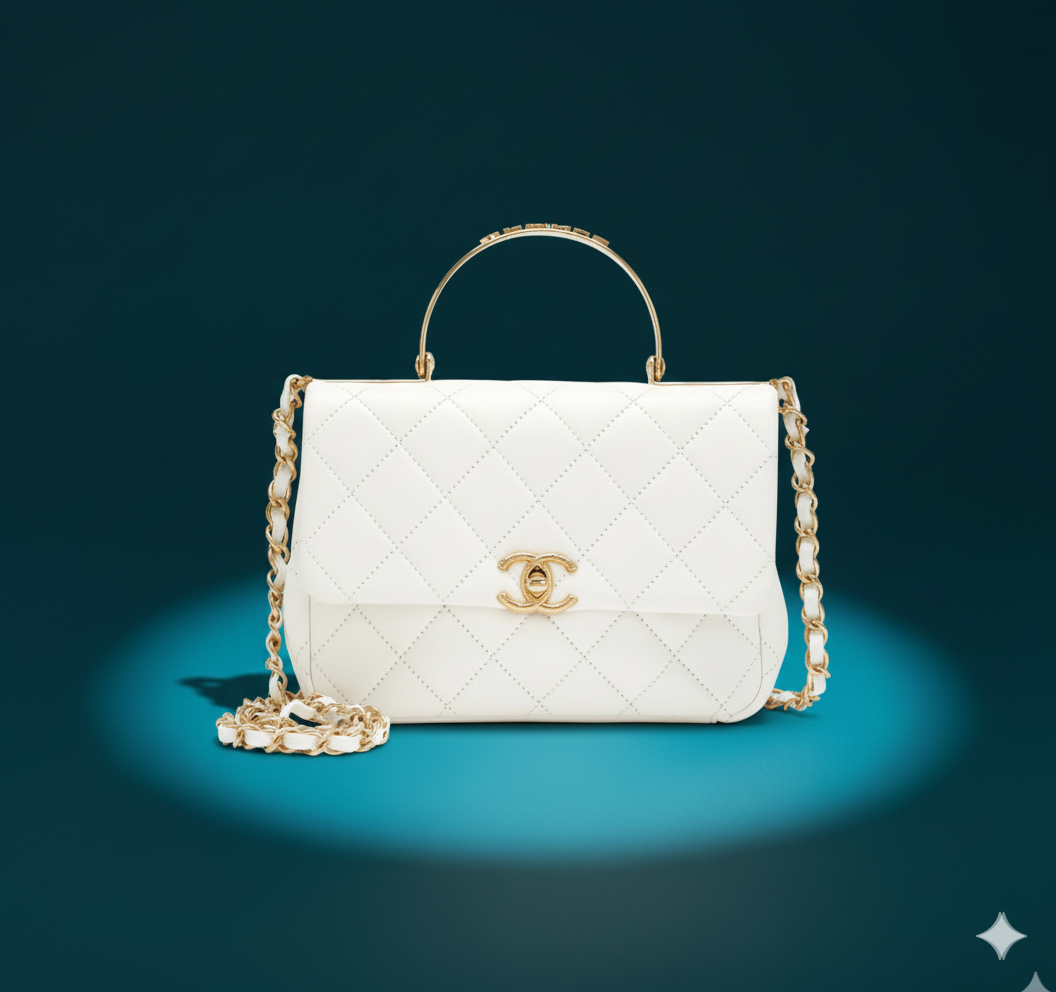
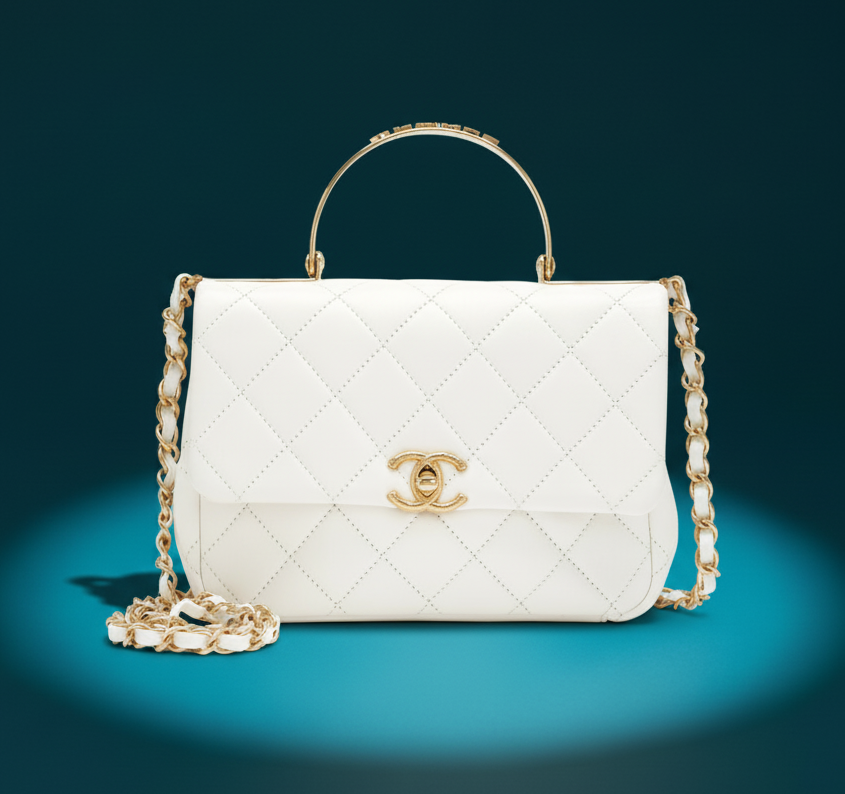
[prod/fix : - image water mark removed]

diff --git a/src/components/home/ProductModal.tsx b/src/components/home/ProductModal.tsx
@@ -146,7 +146,7 @@ const ProductModal: React.FC<ProductModalProps> = ({ bag, onClose }) => {
             <img
               src={bag.additionalImages?.[selectedImageIndex] || bag.image}
               alt={bag.name}
-              className="w-full h-full object-cover scale-125"
+              className="w-full h-full object-cover scale-107"
             />
             {/* Image overlay effects */}
             <div className="absolute inset-0">
@@ -175,7 +175,7 @@ const ProductModal: React.FC<ProductModalProps> = ({ bag, onClose }) => {
                 <img
                   src={img}
                   alt={`${bag.name} view ${index + 1}`}
-                  className="w-full h-full object-cover scale-110"
+                  className="w-full h-full object-cover scale-105"
                 />
                 {selectedImageIndex !== index && (
                   <div className="absolute inset-0 bg-black/30"></div>
